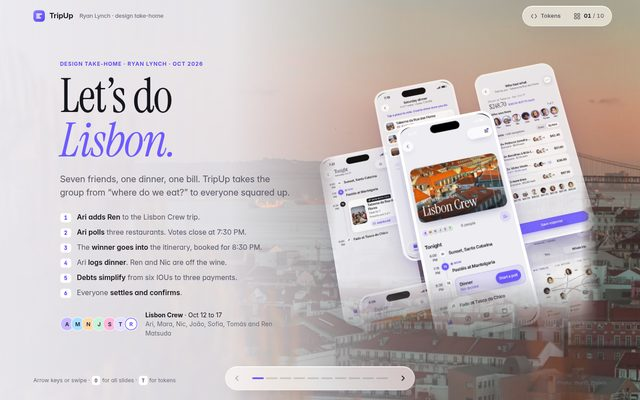
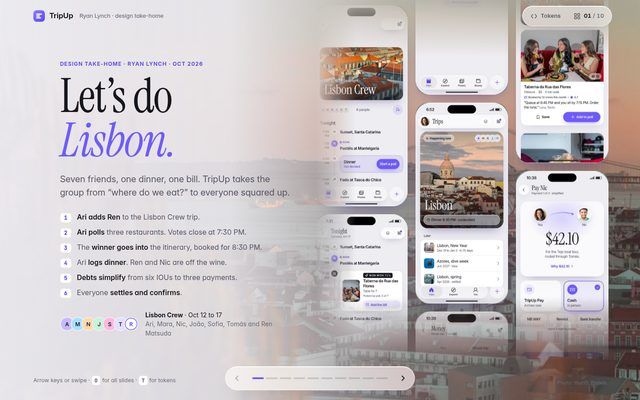
v5.4.5: slide 1 staggered screen grid

Changed region(s): [[0.5, 0.0, 0.9688, 0.9]]

diff --git a/site/deck/deck.css b/site/deck/deck.css
@@ -880,3 +880,24 @@ html[data-motion="reduce"] .hs-card { animation: none !important; }
 .grid-hero .hero-show { -webkit-mask-image: linear-gradient(to bottom, #000 0, #000 80%, transparent 100%), linear-gradient(to right, transparent 0, #000 8%, #000 94%, transparent 100%); mask-image: linear-gradient(to bottom, #000 0, #000 80%, transparent 100%), linear-gradient(to right, transparent 0, #000 8%, #000 94%, transparent 100%); }
 .hs-plane { inset: 10% 4% -6% 2%; }
 .hs-card { opacity: .9; } .hs-2 { opacity: 1 !important; }
+
+/* v5.4.5 slide 1: flat masonry of real screens, right half only. No 3D. */
+.grid-hero .hero-grid { position: relative; align-self: stretch; width: min(660px, 48vw); height: 100vh; margin: -12vh -64px -12vh 0; display: grid; grid-template-columns: repeat(3, 1fr); gap: 18px; overflow: hidden; pointer-events: none; user-select: none;
+  -webkit-mask-image: linear-gradient(to bottom, transparent 0, #000 16%, #000 76%, transparent 92%), linear-gradient(to right, transparent 0, #000 14%, #000 100%);
+  -webkit-mask-composite: source-in; mask-image: linear-gradient(to bottom, transparent 0, #000 16%, #000 76%, transparent 92%), linear-gradient(to right, transparent 0, #000 14%, #000 100%); mask-composite: intersect; }
+.hg-col { display: flex; flex-direction: column; gap: 18px; will-change: transform; }
+.hg-card { margin: 0; flex: none; aspect-ratio: 402 / 874; border-radius: 28px; overflow: hidden; position: relative; background: #fff;
+  box-shadow: 0 24px 48px -24px rgba(40,28,110,.45), 0 8px 18px -10px rgba(110,91,255,.22); }
+.hg-card::after { content: ''; position: absolute; inset: 0; border-radius: inherit; box-shadow: inset 0 0 0 1px rgba(255,255,255,.75); pointer-events: none; }
+.hg-card img { display: block; width: 100%; height: 100%; object-fit: cover; object-position: top; }
+.hg-c0 { --o: 0%; } .hg-c1 { --o: -40%; } .hg-c2 { --o: -15%; }
+.hg-col { transform: translateY(calc(var(--o) * .46)); }
+.hg-c0 { transform: translateY(2%); } .hg-c1 { transform: translateY(-16%); } .hg-c2 { transform: translateY(-5%); }
+.slide.is-in .hg-c0, .slide.is-in .hg-c2 { animation: hgDown 40s ease-in-out infinite alternate; }
+.slide.is-in .hg-c1 { animation: hgUp 40s ease-in-out infinite alternate; }
+@keyframes hgDown { to { translate: 0 24px; } }
+@keyframes hgUp { to { translate: 0 -24px; } }
+@media (prefers-reduced-motion: reduce) { .slide.is-in .hg-col { animation: none; } }
+html[data-motion="reduce"] .hg-col { animation: none !important; }
+@media (max-width: 900px) { .grid-hero .hero-grid { width: 100%; height: 560px; margin: 0; } }
+.grid-hero .hero-grid { z-index: 5; isolation: isolate; }

diff --git a/site/index.html b/site/index.html
@@ -55,7 +55,7 @@
         <p><b>Lisbon Crew</b> · Oct 12 to 17<br><span>Ari, Mara, Nic, João, Sofia, Tomás and Ren Matsuda</span></p>
       </div>
     </div>
-    <div class="hero-show" aria-label="TripUp screens: trip home, live poll, Find a place, the plan, the itemized split and Money" role="img"><div class="hs-plane"><figure class="hs-card hs-0"><img src="deck/img/hero/plan.jpg" alt="" loading="eager" decoding="async"></figure><figure class="hs-card hs-1"><img src="deck/img/hero/live.jpg" alt="" loading="eager" decoding="async"></figure><figure class="hs-card hs-2"><img src="deck/img/hero/trip.jpg" alt="" loading="eager" decoding="async"></figure><figure class="hs-card hs-3"><img src="deck/img/hero/split.jpg" alt="" loading="eager" decoding="async"></figure><figure class="hs-card hs-4"><img src="deck/img/hero/explore.jpg" alt="" loading="eager" decoding="async"></figure><figure class="hs-card hs-5"><img src="deck/img/hero/money.jpg" alt="" loading="eager" decoding="async"></figure></div></div>
+    <div class="hero-grid" role="img" aria-label="TripUp screens: Home, Trip home, live poll, Find a place, the plan, the itemized split, Money and Pay"><div class="hg-col hg-c0"><figure class="hg-card"><img src="deck/img/hero/trip.jpg" alt="" decoding="async"></figure><figure class="hg-card"><img src="deck/img/hero/plan.jpg" alt="" decoding="async"></figure><figure class="hg-card"><img src="deck/img/hero/split.jpg" alt="" decoding="async"></figure></div><div class="hg-col hg-c1"><figure class="hg-card"><img src="deck/img/hero/live.jpg" alt="" decoding="async"></figure><figure class="hg-card"><img src="deck/img/hero/home.jpg" alt="" decoding="async"></figure><figure class="hg-card"><img src="deck/img/hero/money.jpg" alt="" decoding="async"></figure></div><div class="hg-col hg-c2"><figure class="hg-card"><img src="deck/img/hero/explore.jpg" alt="" decoding="async"></figure><figure class="hg-card"><img src="deck/img/hero/pay.jpg" alt="" decoding="async"></figure><figure class="hg-card"><img src="deck/img/hero/plan.jpg" alt="" decoding="async"></figure></div></div>
   </div>
   <p class="credit">Photo: thorl5, Pexels</p>
 </section>

diff --git a/design-system/CHANGELOG.md b/design-system/CHANGELOG.md
@@ -2,6 +2,10 @@
 
 `tokens.json` is the source of truth. `tokens.css` and the Figma variables are generated from it by `build_tokens.py`. Anyone building on `tokens.*` (for example the Storybook in `/workspace/tripup/storybook/`) should check here before they rebuild.
 
+## v5.4.5 (Oct 19, 2026)
+
+- **Slide 1 only:** the angled showcase is replaced by a flat masonry of 8 real screens (Home, Trip home, live poll, Find a place, the plan, By item split, Money, Pay Nic). It's three columns in the right half with 18px gutters, staggered vertically and running off the top and bottom. Every card shows the full screen at 402:874, with a 28px radius, a 1px white inner border and a soft shadow, and no device frame. The edges fade into the text and above the bottom nav. The columns drift very slowly in alternating directions; Reduce Motion keeps them still. No 3D.
+
 ## v5.4.4 (Oct 19, 2026)
 
 - **Toasts sit low everywhere,** just above the bottom action, centered. They never cover the You / Whole trip switch or a title. On Waiting for Nic, the "Marked $42.00 paid · Undo" toast sits above the Done / Nudge Nic stack, never over it. 
